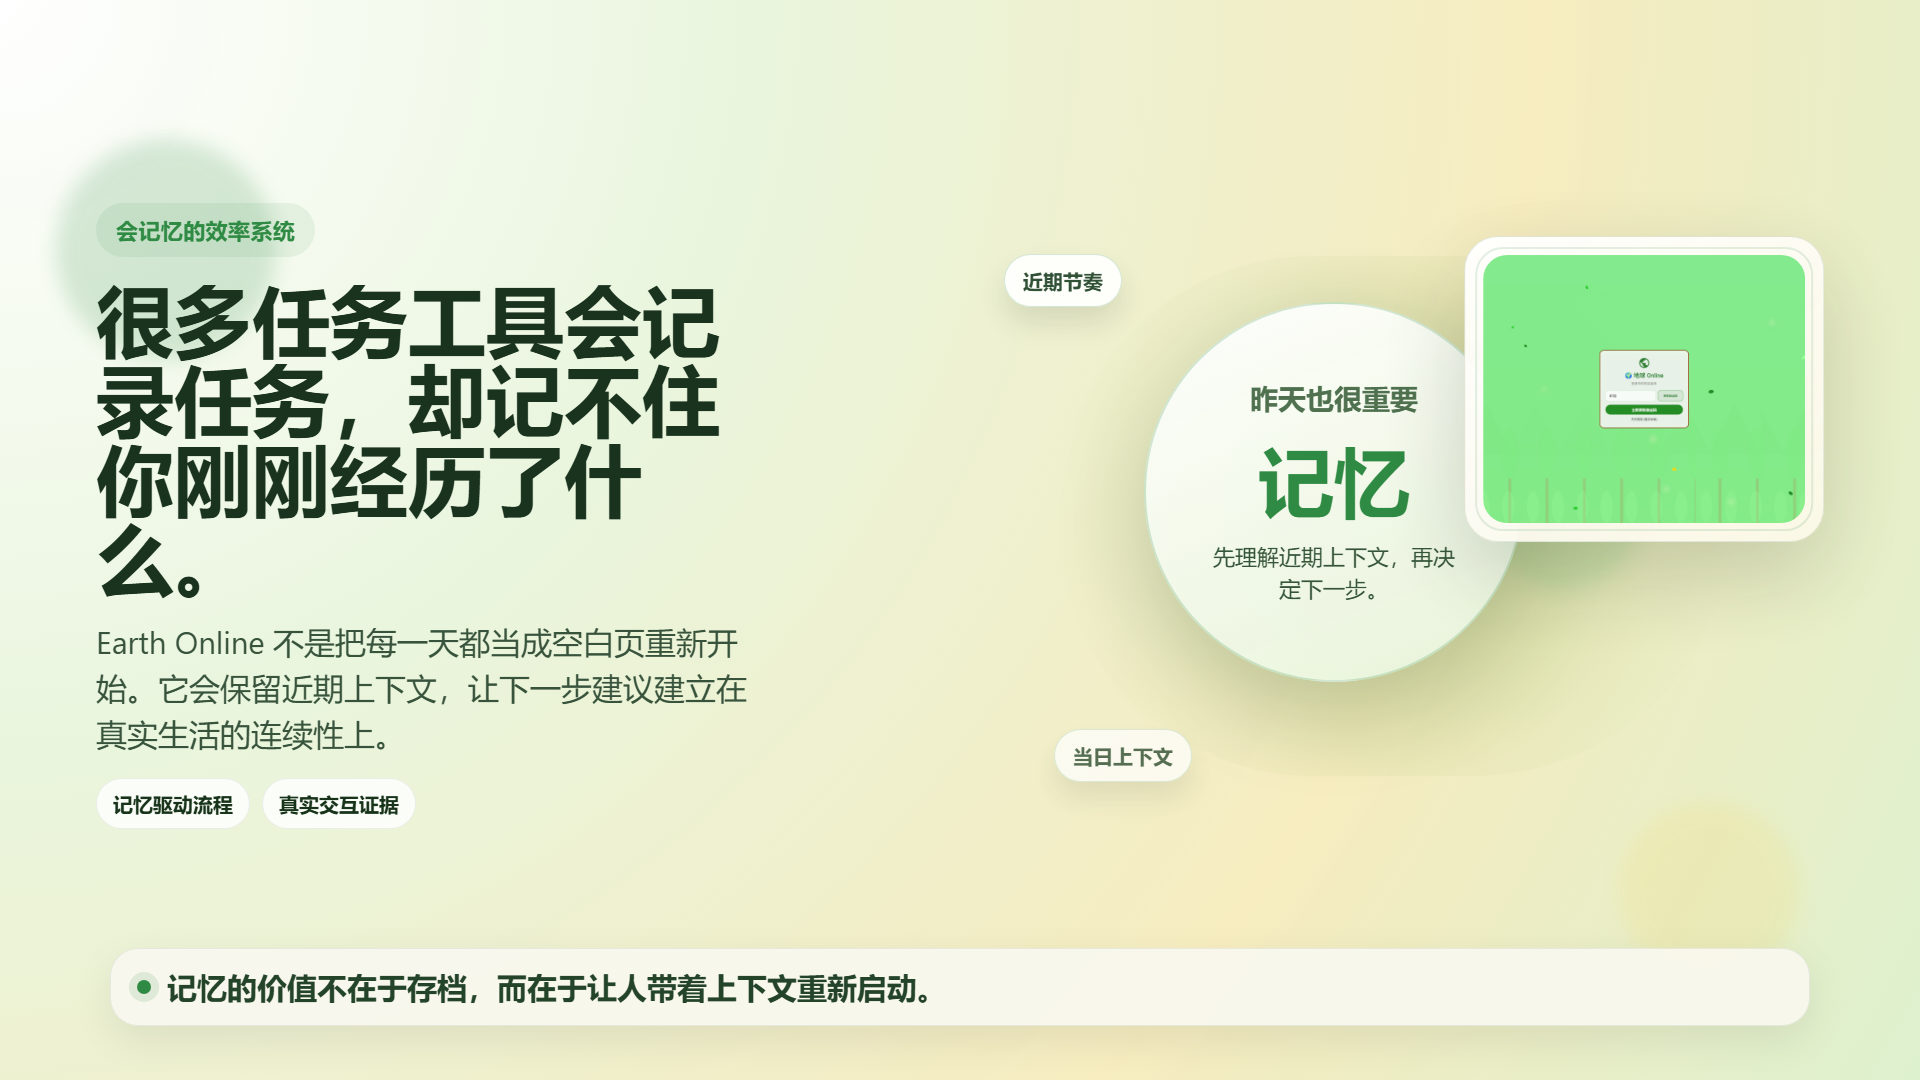
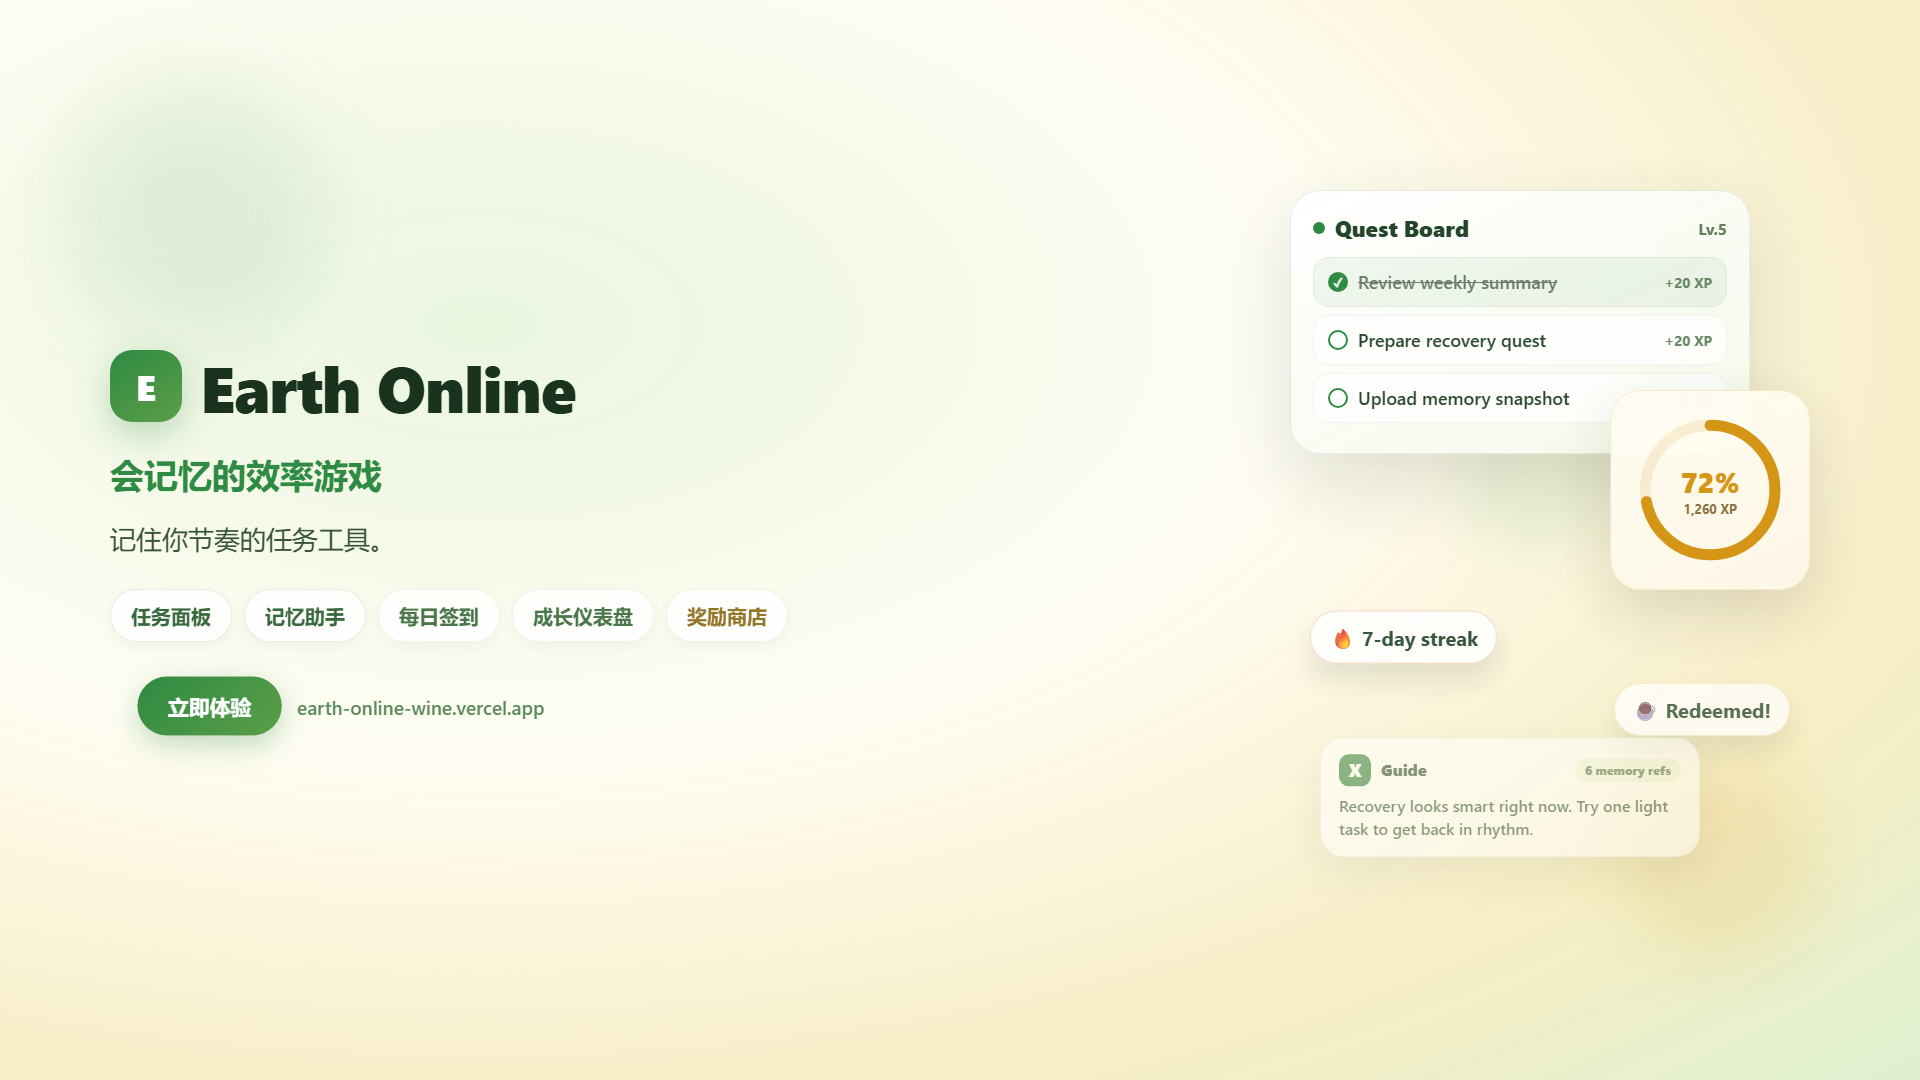
docs: 重新设计海报 + README 顶部布局重构
- 新增独立海报 Composition（非视频截帧），展示产品全貌
- 海报包含：Logo、标语、5 大功能 chip、Quest Board、XP 环、签到、奖励、Guide 气泡
- README 顶部新增海报 + 居中链接栏（Live Demo / Video / GitHub）
- 移除旧的独立 Demo 章节，减少重复内容

diff --git a/promo-video/src/EarthOnlinePromo.tsx b/promo-video/src/EarthOnlinePromo.tsx
@@ -1553,3 +1553,239 @@ export const EarthOnlinePromo: React.FC = () => {
 export const EarthOnlinePromoZh: React.FC = () => {
   return <PromoComposition scenes={promoScenesZh} audioDir="audio-zh" variant="zh" />;
 };
+
+/* ─── Standalone Poster Compositions ─── */
+
+type PosterCopy = {
+  title: string;
+  subtitle: string;
+  tagline: string;
+  features: [string, string, string, string, string];
+  cta: string;
+  url: string;
+};
+
+const posterCopyEn: PosterCopy = {
+  title: 'Earth Online',
+  subtitle: 'Memory-Aware Productivity Game',
+  tagline: 'The task app that remembers your rhythm.',
+  features: ['Quest Board', 'Memory Guide', 'Daily Check-in', 'Growth Stats', 'Reward Shop'],
+  cta: 'Try it live',
+  url: 'earth-online-wine.vercel.app',
+};
+
+const posterCopyZh: PosterCopy = {
+  title: 'Earth Online',
+  subtitle: '会记忆的效率游戏',
+  tagline: '记住你节奏的任务工具。',
+  features: ['任务面板', '记忆助手', '每日签到', '成长仪表盘', '奖励商店'],
+  cta: '立即体验',
+  url: 'earth-online-wine.vercel.app',
+};
+
+const PosterComposition: React.FC<{copy: PosterCopy}> = ({copy}) => {
+  const frame = useCurrentFrame();
+  const {fps} = useVideoConfig();
+
+  const titleIn = springIn(frame, fps, 0);
+  const subIn = appear(frame, 8, 16);
+  const tagIn = appear(frame, 16, 14);
+  const chipsIn = appear(frame, 22, 18);
+  const ctaIn = springIn(frame, fps, 28);
+  const ringProgress = interpolate(frame, [6, 30], [0, 0.72], {
+    extrapolateLeft: 'clamp',
+    extrapolateRight: 'clamp',
+    easing: Easing.bezier(0.2, 0.8, 0.2, 1),
+  });
+  const ringR = 82;
+  const ringC = 2 * Math.PI * ringR;
+
+  return (
+    <AbsoluteFill
+      style={{
+        ...shellStyle,
+        background:
+          'radial-gradient(ellipse at 25% 30%, rgba(233,245,221,0.96) 0%, rgba(255,253,243,0.97) 40%, rgba(246,236,191,0.92) 75%, rgba(221,240,206,0.95) 100%)',
+      }}
+    >
+      {/* Decorative orbs */}
+      <div style={{position: 'absolute', top: 80, left: 60, width: 260, height: 260, borderRadius: 260, background: 'rgba(47,138,67,0.1)', filter: 'blur(40px)'}} />
+      <div style={{position: 'absolute', bottom: 120, right: 100, width: 200, height: 200, borderRadius: 200, background: 'rgba(212,149,22,0.12)', filter: 'blur(30px)'}} />
+      <div style={{position: 'absolute', top: 400, right: 300, width: 160, height: 160, borderRadius: 160, background: 'rgba(115,195,126,0.1)', filter: 'blur(25px)'}} />
+
+      <div style={{position: 'absolute', inset: 0, display: 'flex', alignItems: 'center', padding: '0 110px', gap: 80}}>
+        {/* Left: Text content */}
+        <div style={{flex: 1, display: 'flex', flexDirection: 'column', gap: 22, transform: `translateY(${(1 - titleIn) * 20}px)`}}>
+          {/* Logo + title */}
+          <div style={{display: 'flex', alignItems: 'center', gap: 18}}>
+            <div style={{
+              width: 72, height: 72, borderRadius: 22,
+              background: 'linear-gradient(145deg, #2F8A43, #5B9E48)',
+              display: 'flex', alignItems: 'center', justifyContent: 'center',
+              boxShadow: '0 12px 36px rgba(47,138,67,0.3)',
+            }}>
+              <div style={{fontSize: 36, color: '#fff', fontWeight: 900}}>E</div>
+            </div>
+            <div style={{fontSize: 64, fontWeight: 900, color: '#1A331F', letterSpacing: -1}}>{copy.title}</div>
+          </div>
+
+          {/* Subtitle */}
+          <div style={{
+            opacity: subIn,
+            fontSize: 34, fontWeight: 800, color: '#2F8A43',
+            transform: `translateY(${(1 - subIn) * 12}px)`,
+          }}>
+            {copy.subtitle}
+          </div>
+
+          {/* Tagline */}
+          <div style={{
+            opacity: tagIn,
+            fontSize: 26, lineHeight: 1.5, color: '#38533C', maxWidth: 560,
+            transform: `translateY(${(1 - tagIn) * 10}px)`,
+          }}>
+            {copy.tagline}
+          </div>
+
+          {/* Feature chips */}
+          <div style={{
+            display: 'flex', flexWrap: 'wrap', gap: 12, marginTop: 8,
+            opacity: chipsIn,
+            transform: `translateY(${(1 - chipsIn) * 14}px)`,
+          }}>
+            {copy.features.map((f, i) => (
+              <div key={f} style={{
+                padding: '12px 20px', borderRadius: 999,
+                background: 'rgba(255,255,255,0.88)',
+                border: `1px solid ${i < 2 ? '#2F8A4322' : i === 4 ? '#D4951622' : '#73C37E22'}`,
+                fontSize: 20, fontWeight: 700,
+                color: i < 2 ? '#2A5E30' : i === 4 ? '#8A6B1A' : '#3D6B3D',
+                boxShadow: '0 4px 16px rgba(30,50,32,0.06)',
+              }}>
+                {f}
+              </div>
+            ))}
+          </div>
+
+          {/* CTA */}
+          <div style={{
+            marginTop: 12, display: 'flex', alignItems: 'center', gap: 16,
+            transform: `scale(${0.94 + ctaIn * 0.06})`,
+          }}>
+            <div style={{
+              padding: '16px 32px', borderRadius: 999,
+              background: 'linear-gradient(135deg, #2F8A43, #5B9E48)',
+              color: '#fff', fontSize: 22, fontWeight: 900,
+              boxShadow: '0 10px 30px rgba(47,138,67,0.3)',
+            }}>
+              {copy.cta}
+            </div>
+            <div style={{fontSize: 20, color: '#5B8A5E', fontWeight: 600}}>{copy.url}</div>
+          </div>
+        </div>
+
+        {/* Right: Visual showcase */}
+        <div style={{width: 520, height: 700, position: 'relative'}}>
+          {/* Mock quest board card */}
+          <div style={{
+            position: 'absolute', left: 0, top: 0, width: 460, borderRadius: 30,
+            padding: 22, overflow: 'hidden',
+            background: 'linear-gradient(155deg, rgba(255,255,255,0.96), rgba(245,249,236,0.93))',
+            border: '1px solid rgba(45,89,48,0.1)',
+            boxShadow: '0 28px 72px rgba(32,51,35,0.14)',
+            opacity: appear(frame, 10, 16),
+            transform: `translateY(${(1 - appear(frame, 10, 16)) * 18}px)`,
+          }}>
+            <div style={{display: 'flex', alignItems: 'center', gap: 10, marginBottom: 14}}>
+              <div style={{width: 12, height: 12, borderRadius: 999, background: '#2F8A43'}} />
+              <div style={{fontSize: 22, fontWeight: 800, color: '#234529'}}>Quest Board</div>
+              <div style={{marginLeft: 'auto', fontSize: 16, fontWeight: 700, color: '#61805E'}}>Lv.5</div>
+            </div>
+            {['Review weekly summary', 'Prepare recovery quest', 'Upload memory snapshot'].map((t, i) => (
+              <div key={t} style={{
+                display: 'flex', gap: 10, alignItems: 'center',
+                padding: '12px 14px', marginBottom: 8, borderRadius: 16,
+                background: i === 0 ? '#2F8A4312' : 'rgba(255,255,255,0.7)',
+                border: '1px solid rgba(38,73,42,0.06)',
+              }}>
+                <div style={{
+                  width: 20, height: 20, borderRadius: 999,
+                  background: i === 0 ? '#2F8A43' : 'transparent',
+                  border: '2px solid #2F8A43',
+                  display: 'flex', alignItems: 'center', justifyContent: 'center',
+                  color: '#fff', fontSize: 12, fontWeight: 900,
+                }}>
+                  {i === 0 ? '✓' : ''}
+                </div>
+                <div style={{
+                  fontSize: 18, color: i === 0 ? '#6C7D6C' : '#29482E',
+                  textDecoration: i === 0 ? 'line-through' : 'none', fontWeight: 600,
+                }}>{t}</div>
+                <div style={{marginLeft: 'auto', fontSize: 14, fontWeight: 700, color: '#6B8A67'}}>+20 XP</div>
+              </div>
+            ))}
+          </div>
+
+          {/* XP Ring overlay */}
+          <div style={{
+            position: 'absolute', right: 0, top: 200, width: 200, height: 200,
+            borderRadius: 30, padding: 20,
+            background: 'linear-gradient(155deg, rgba(255,253,243,0.98), rgba(252,247,230,0.96))',
+            border: '1px solid rgba(212,149,22,0.16)',
+            boxShadow: '0 22px 60px rgba(40,36,20,0.15)',
+            opacity: appear(frame, 18, 16),
+            transform: `translateX(${(1 - appear(frame, 18, 16)) * 20}px)`,
+            display: 'flex', alignItems: 'center', justifyContent: 'center',
+          }}>
+            <svg width="160" height="160" viewBox="0 0 200 200" style={{transform: 'rotate(-90deg)'}}>
+              <circle cx="100" cy="100" r={ringR} fill="none" stroke="rgba(212,149,22,0.14)" strokeWidth="14" />
+              <circle cx="100" cy="100" r={ringR} fill="none" stroke="#D49516" strokeWidth="14"
+                strokeLinecap="round" strokeDasharray={ringC} strokeDashoffset={ringC * (1 - ringProgress)} />
+            </svg>
+            <div style={{position: 'absolute', display: 'flex', flexDirection: 'column', alignItems: 'center'}}>
+              <div style={{fontSize: 28, fontWeight: 900, color: '#D49516'}}>{Math.round(ringProgress * 100)}%</div>
+              <div style={{fontSize: 13, fontWeight: 700, color: '#8A7340'}}>1,260 XP</div>
+            </div>
+          </div>
+
+          {/* Streak chip */}
+          <FloatingChip label="🔥 7-day streak" accent="#E64A19" start={22} top={420} left={20} />
+
+          {/* Reward chip */}
+          <FloatingChip label="☕ Redeemed!" accent="#D49516" start={26} top={490} right={20} />
+
+          {/* Guide bubble */}
+          <div style={{
+            position: 'absolute', left: 30, bottom: 40, width: 380, borderRadius: 24,
+            padding: '16px 18px',
+            background: 'rgba(255,255,255,0.94)',
+            border: '1px solid rgba(47,138,67,0.12)',
+            boxShadow: '0 18px 44px rgba(32,51,35,0.12)',
+            opacity: appear(frame, 28, 14),
+            transform: `translateY(${(1 - appear(frame, 28, 14)) * 16}px)`,
+          }}>
+            <div style={{display: 'flex', gap: 10, alignItems: 'center', marginBottom: 8}}>
+              <div style={{
+                width: 32, height: 32, borderRadius: 10,
+                background: '#2F7C39', color: '#fff',
+                display: 'flex', alignItems: 'center', justifyContent: 'center',
+                fontSize: 18, fontWeight: 900,
+              }}>X</div>
+              <div style={{fontSize: 16, fontWeight: 800, color: '#254329'}}>Guide</div>
+              <div style={{
+                marginLeft: 'auto', padding: '4px 10px', borderRadius: 999,
+                background: '#EEF7E1', fontSize: 12, fontWeight: 800, color: '#4F6E4F',
+              }}>6 memory refs</div>
+            </div>
+            <div style={{fontSize: 16, lineHeight: 1.45, color: '#2E4E33', fontWeight: 600}}>
+              Recovery looks smart right now. Try one light task to get back in rhythm.
+            </div>
+          </div>
+        </div>
+      </div>
+    </AbsoluteFill>
+  );
+};
+
+export const EarthOnlinePoster: React.FC = () => <PosterComposition copy={posterCopyEn} />;
+export const EarthOnlinePosterZh: React.FC = () => <PosterComposition copy={posterCopyZh} />;

diff --git a/promo-video/src/Root.tsx b/promo-video/src/Root.tsx
@@ -1,5 +1,10 @@
 import {Composition} from 'remotion';
-import {EarthOnlinePromo, EarthOnlinePromoZh} from './EarthOnlinePromo';
+import {
+  EarthOnlinePromo,
+  EarthOnlinePromoZh,
+  EarthOnlinePoster,
+  EarthOnlinePosterZh,
+} from './EarthOnlinePromo';
 import {fps, height, totalDurationInFrames, width} from './scenes';
 import {totalDurationInFramesZh} from './scenes.zh';
 
@@ -18,6 +23,22 @@ export const RemotionRoot = () => {
         id="EarthOnlinePromoZh"
         component={EarthOnlinePromoZh}
         durationInFrames={totalDurationInFramesZh}
+        fps={fps}
+        width={width}
+        height={height}
+      />
+      <Composition
+        id="EarthOnlinePoster"
+        component={EarthOnlinePoster}
+        durationInFrames={60}
+        fps={fps}
+        width={width}
+        height={height}
+      />
+      <Composition
+        id="EarthOnlinePosterZh"
+        component={EarthOnlinePosterZh}
+        durationInFrames={60}
         fps={fps}
         width={width}
         height={height}

diff --git a/README.md b/README.md
@@ -2,6 +2,12 @@
 
 # Earth Online
 
+[![Earth Online poster](./output/earth-online-poster.png)](https://earth-online-wine.vercel.app)
+
+<p align="center">
+  <a href="https://earth-online-wine.vercel.app"><strong>Live Demo</strong></a> · <a href="./output/earth-online-intro.mp4"><strong>English Video</strong></a> · <a href="./output/earth-online-intro-zh.mp4"><strong>Chinese Video</strong></a> · <a href="https://github.com/xunyud/Earth-Online"><strong>GitHub</strong></a>
+</p>
+
 Earth Online is a memory-aware productivity game that turns everyday planning into an evolving quest log.
 
 It is not just a task board. It remembers recent context, turns actions into usable memory, and guides the next step with a steadier sense of companionship.
@@ -47,19 +53,6 @@ Earth Online was built around a different idea: productivity tools should not on
 - Use the Flutter client as the main home for quests, guidance, rewards, diary, and stats.
 - Extend capture and guidance flows through Supabase Edge Functions and the lightweight backend.
 - Support WeChat-based interaction so tasks and guidance can happen in more natural moments.
-
-## Demo / Live Experience
-
-Earth Online is easier to understand as a full product loop than as a list of isolated features.
-
-- Live deployment: [https://earth-online-wine.vercel.app](https://earth-online-wine.vercel.app)
-- English demo video: [Watch the intro video](./output/earth-online-intro.mp4)
-- Chinese demo video: [Watch the Chinese intro video](./output/earth-online-intro-zh.mp4)
-- GitHub repository: [xunyud/Earth-Online](https://github.com/xunyud/Earth-Online)
-
-Recommended path: watch the short intro video first, then open the live app and trace the quest board, guide, and memory flows together.
-
-[![Earth Online poster](./output/earth-online-poster.png)](./output/earth-online-intro.mp4)
 
 ## Differentiators
 
